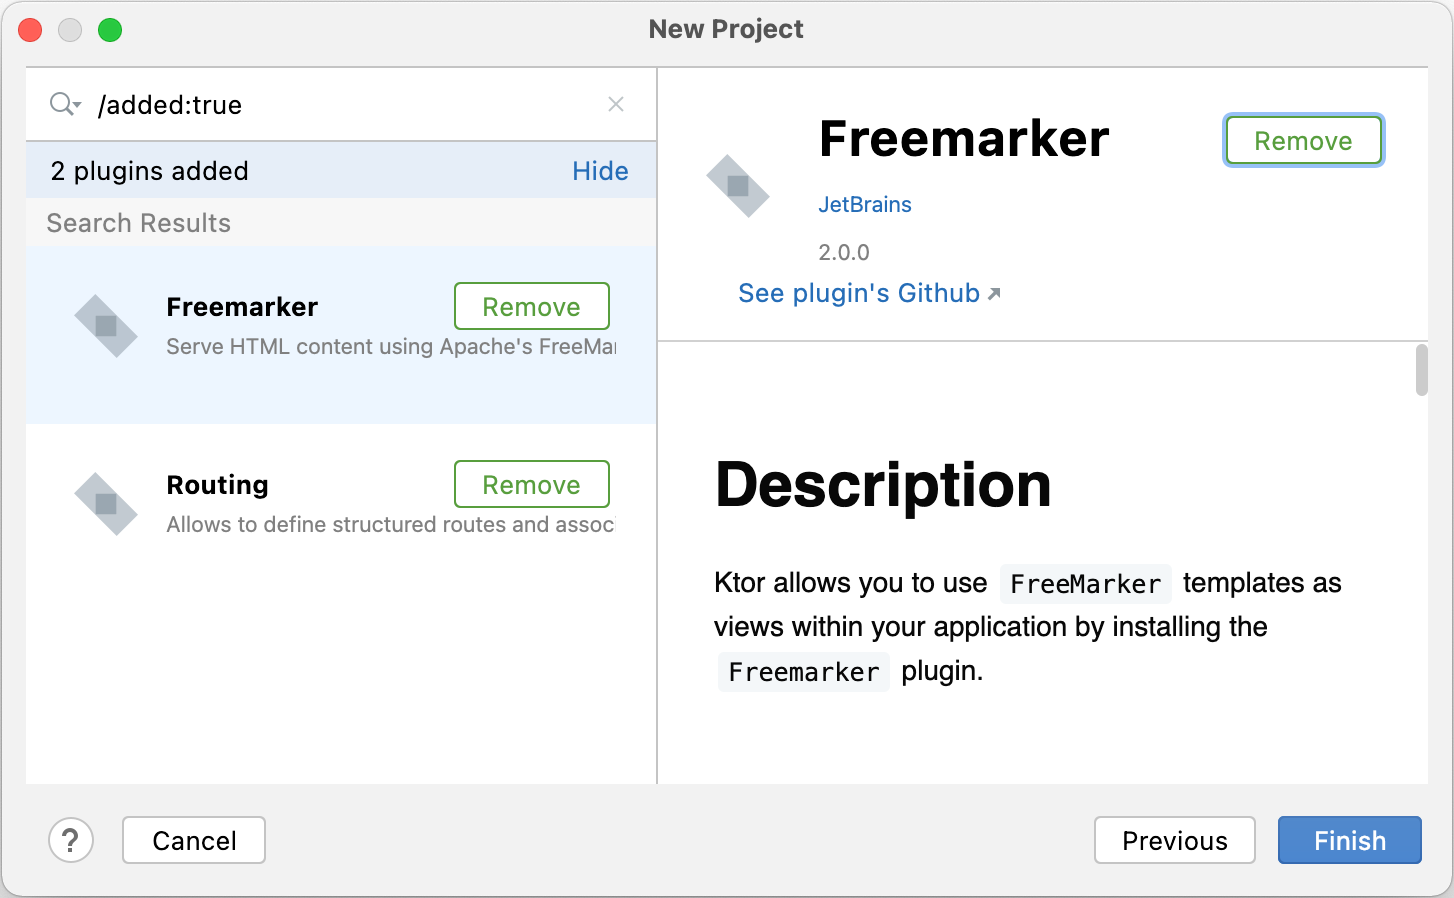
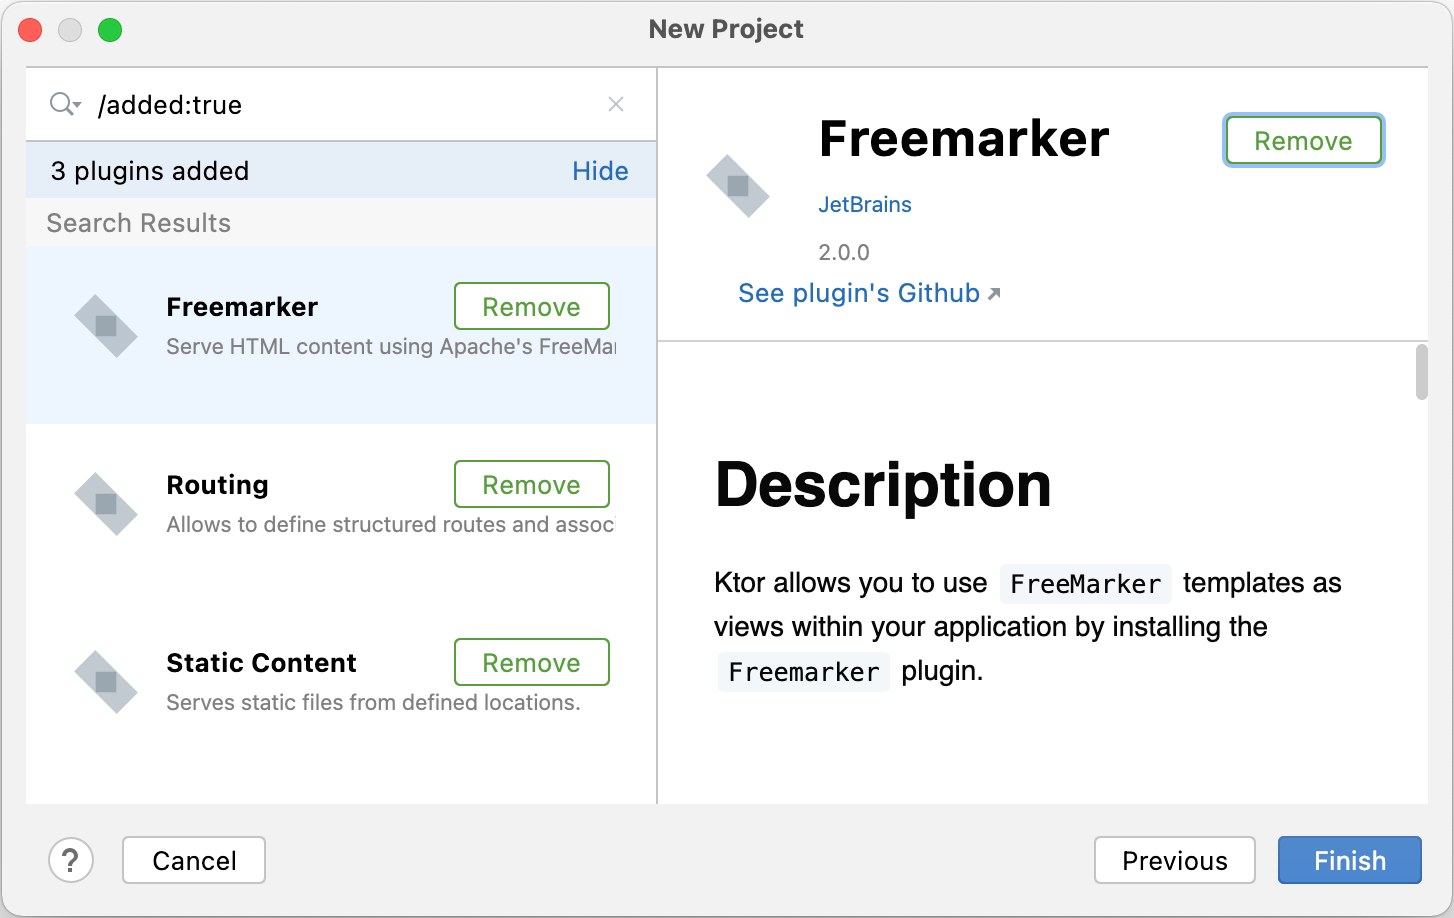
KTOR-3429 add plugin links

diff --git a/topics/creating_interactive_website.md b/topics/creating_interactive_website.md
@@ -4,12 +4,18 @@
 <var name="example_name" value="tutorial-website-interactive"/>
 <include src="lib.xml" include-id="download_example"/>
 <p>
-Used plugins: Routing, FreeMarker
+Used plugins: <a href="Routing_in_Ktor.md">Routing</a>, <a href="freemarker.md">FreeMarker</a>
 </p>
 </microformat>
 
 
 <excerpt>Learn how to create an interactive website using HTML templating engines like FreeMarker.</excerpt>
+
+In this series of tutorials, we'll show you how to create a website in Ktor:
+- In the first tutorial, we showed how to host [static content](creating_static_website.md) like images and HTML pages.
+- In this tutorial, we'll make our website interactive and create a simple blog application using the FreeMarker template engine.
+- Finally, we'll [add persistence](interactive_website_add_persistence.md) to our website using the Exposed framework.
+
 
 
 ## Home page with templates {id="home_page_templates"}

diff --git a/topics/creating_static_website.md b/topics/creating_static_website.md
@@ -4,7 +4,7 @@
 <var name="example_name" value="tutorial-website-static"/>
 <include src="lib.xml" include-id="download_example"/>
 <p>
-Used plugins: Routing, Static Content
+Used plugins: <a href="Routing_in_Ktor.md">Routing</a>, <a href="Serving_Static_Content.md">Static Content</a>
 </p>
 </microformat>
 
@@ -39,7 +39,7 @@ To create a base project for our application using the Ktor plugin, [open Intell
 
 Click **Next**.
 
-3. On the next page, add the **Routing** and **FreeMarker** plugins:
+3. On the next page, add the **Routing**, **Static Content**, and **FreeMarker** plugins:
    ![Ktor plugins](tutorial_website_new_project_plugins.png){width="727"}
 
    Click **Finish** and wait until IntelliJ IDEA generates a project and installs the dependencies.

diff --git a/topics/interactive_website_add_persistence.md b/topics/interactive_website_add_persistence.md
@@ -4,7 +4,7 @@
 <var name="example_name" value="tutorial-website-interactive-persistence"/>
 <include src="lib.xml" include-id="download_example"/>
 <p>
-Used libraries: Exposed, h2database
+Used libraries: <a href="https://github.com/JetBrains/Exposed">Exposed</a>, <a href="https://github.com/h2database/h2database">h2database</a>
 </p>
 </microformat>
 

diff --git a/topics/creating_http_apis.md b/topics/creating_http_apis.md
@@ -4,7 +4,7 @@
 <var name="example_name" value="tutorial-http-api"/>
 <include src="lib.xml" include-id="download_example"/>
 <p>
-Used plugins: Routing, ContentNegotiation, kotlinx.serialization
+Used plugins: <a href="Routing_in_Ktor.md">Routing</a>, <a href="serialization.md">ContentNegotiation</a>, kotlinx.serialization
 </p>
 </microformat>
 

diff --git a/topics/creating_web_socket_chat.md b/topics/creating_web_socket_chat.md
@@ -4,7 +4,7 @@
 <var name="example_name" value="tutorial-websockets-server"/>
 <include src="lib.xml" include-id="download_example"/>
 <p>
-Used plugins: Routing, WebSockets
+Used plugins: <a href="Routing_in_Ktor.md">Routing</a>, <a href="websocket.md">WebSockets</a>
 </p>
 </microformat>
 
